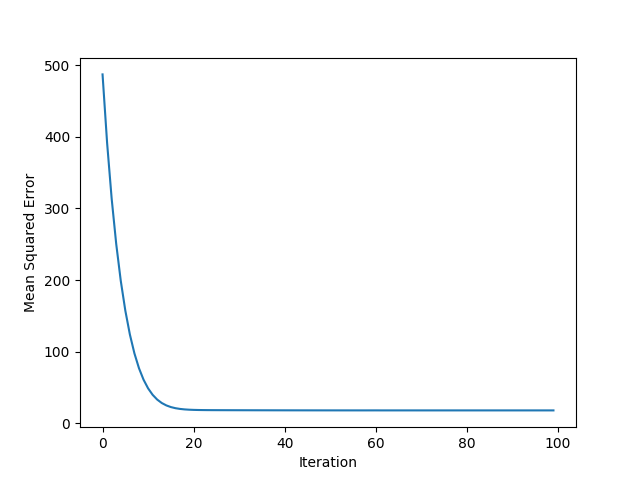
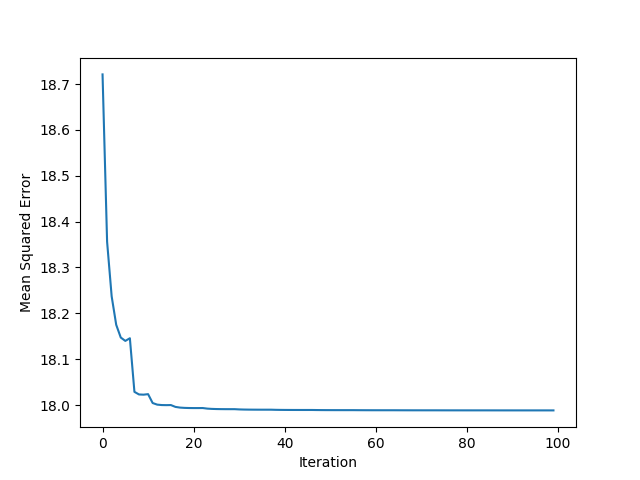
fixed bug

diff --git a/linear-regression.js b/linear-regression.js
@@ -32,23 +32,29 @@ class LinearRegression {
 
   train() {
     //batch gradient descent        rows/batchsize == how many times we iterate
-    const batchQuantity = Math.floor(this.features.shape[0] / this.options.batchSize); // in case we have soem leftover odd number
+    const batchQuantity = Math.floor(
+      this.features.shape[0] / this.options.batchSize
+    ); // in case we have soem leftover odd number
 
-    for (let index = 0; index < this; index++) {
-      for(let j = 0; j < batchQuantity; j++){
+    for (let index = 0; index < this.options.iterations; index++) {
+      for (let j = 0; j < batchQuantity; j++) {
         const startIndex = j * this.options.batchSize;
-        const {batchSize} = this.options;
+        const batchSize = this.options.batchSize;
 
-        const featureSlice = this.features.slice([startIndex, 0], [batchSize, -1]);
+        const featureSlice = this.features.slice(
+          [startIndex, 0],
+          [batchSize, -1]
+        );
         const labelSlice = this.labels.slice([startIndex, 0], [batchSize, -1]);
-        
+
         this.gradientDescent(featureSlice, labelSlice);
       }
       this.recordMSE();
       this.updateLearningRate();
     }
   }
-  test(testFeatures, testLabels) {
+  
+  test(testFeatures,testLabels){
     testFeatures = this.processFeatures(testFeatures);
     testLabels = tf.tensor(testLabels);
 
@@ -57,13 +63,16 @@ class LinearRegression {
     //coefficient of determination  R2 = 1 - total sum of squares / sum of squares of residuals  check notes, aka gauging accuracy of our prediction
 
     //sum of squares of residuals
-    const res = testLabels
-      .sub(predictions)
-      .pow(2)
-      .sum() // we dont have to provide axis for this
-      .get();
+    const res = testLabels.sub(predictions)
+    .pow(2)
+    .sum() // we dont have to provide axis for this
+    .get()
     //total sum of squares
-    const tot = testLabels.sub(testLabels.mean()).pow(2).sum().get();
+    const tot = testLabels
+    .sub(testLabels.mean())
+    .pow(2)
+    .sum()
+    .get();
 
     return 1 - res / tot;
   }
